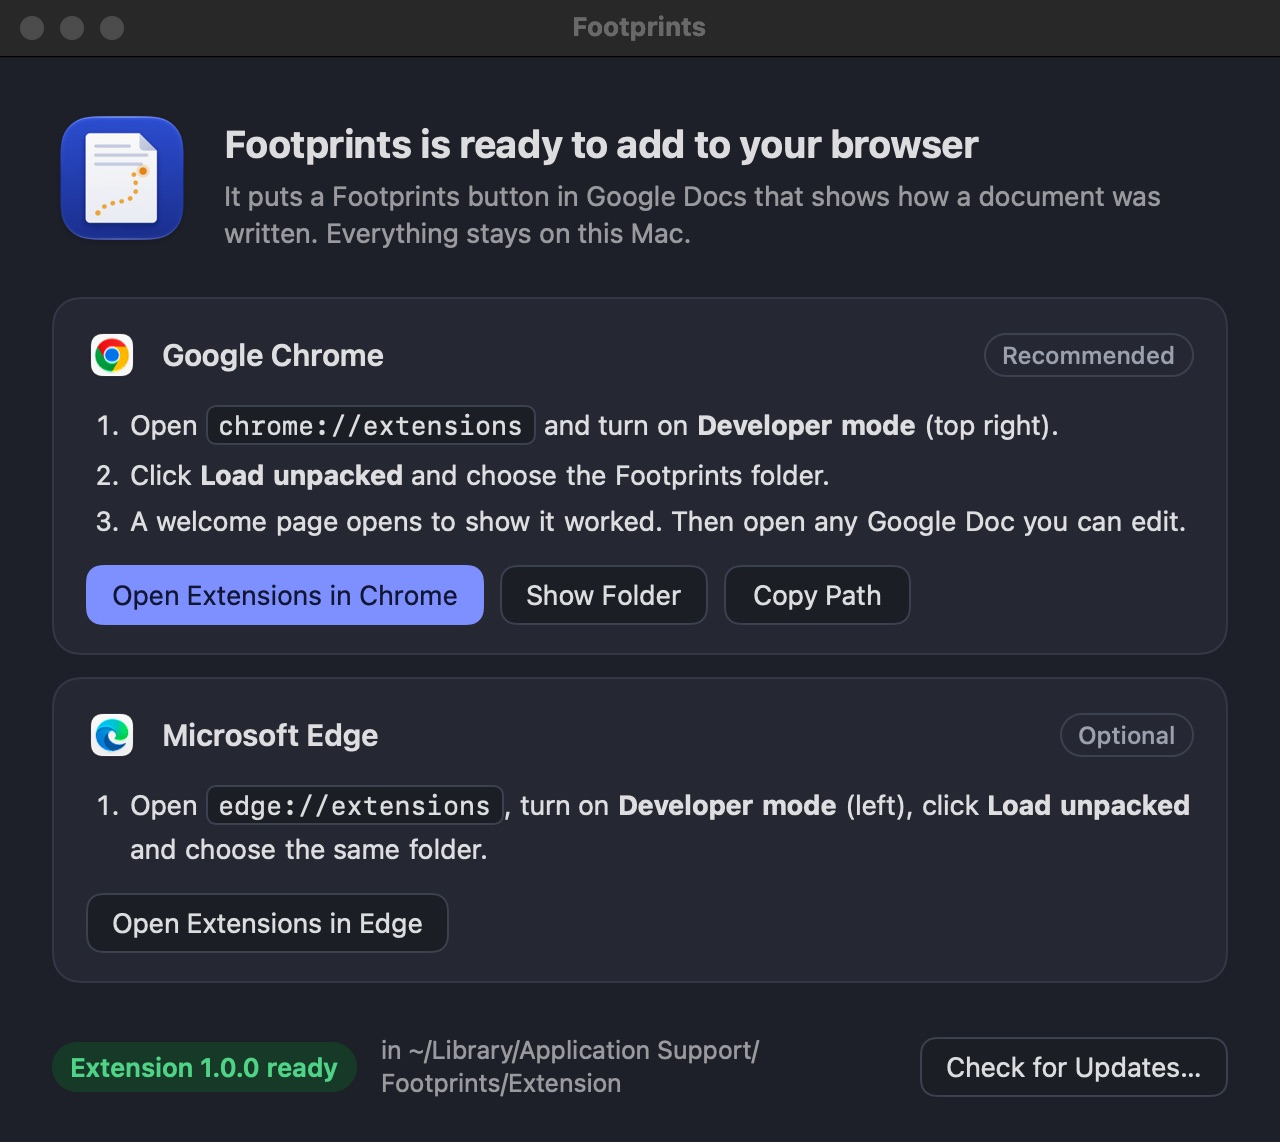
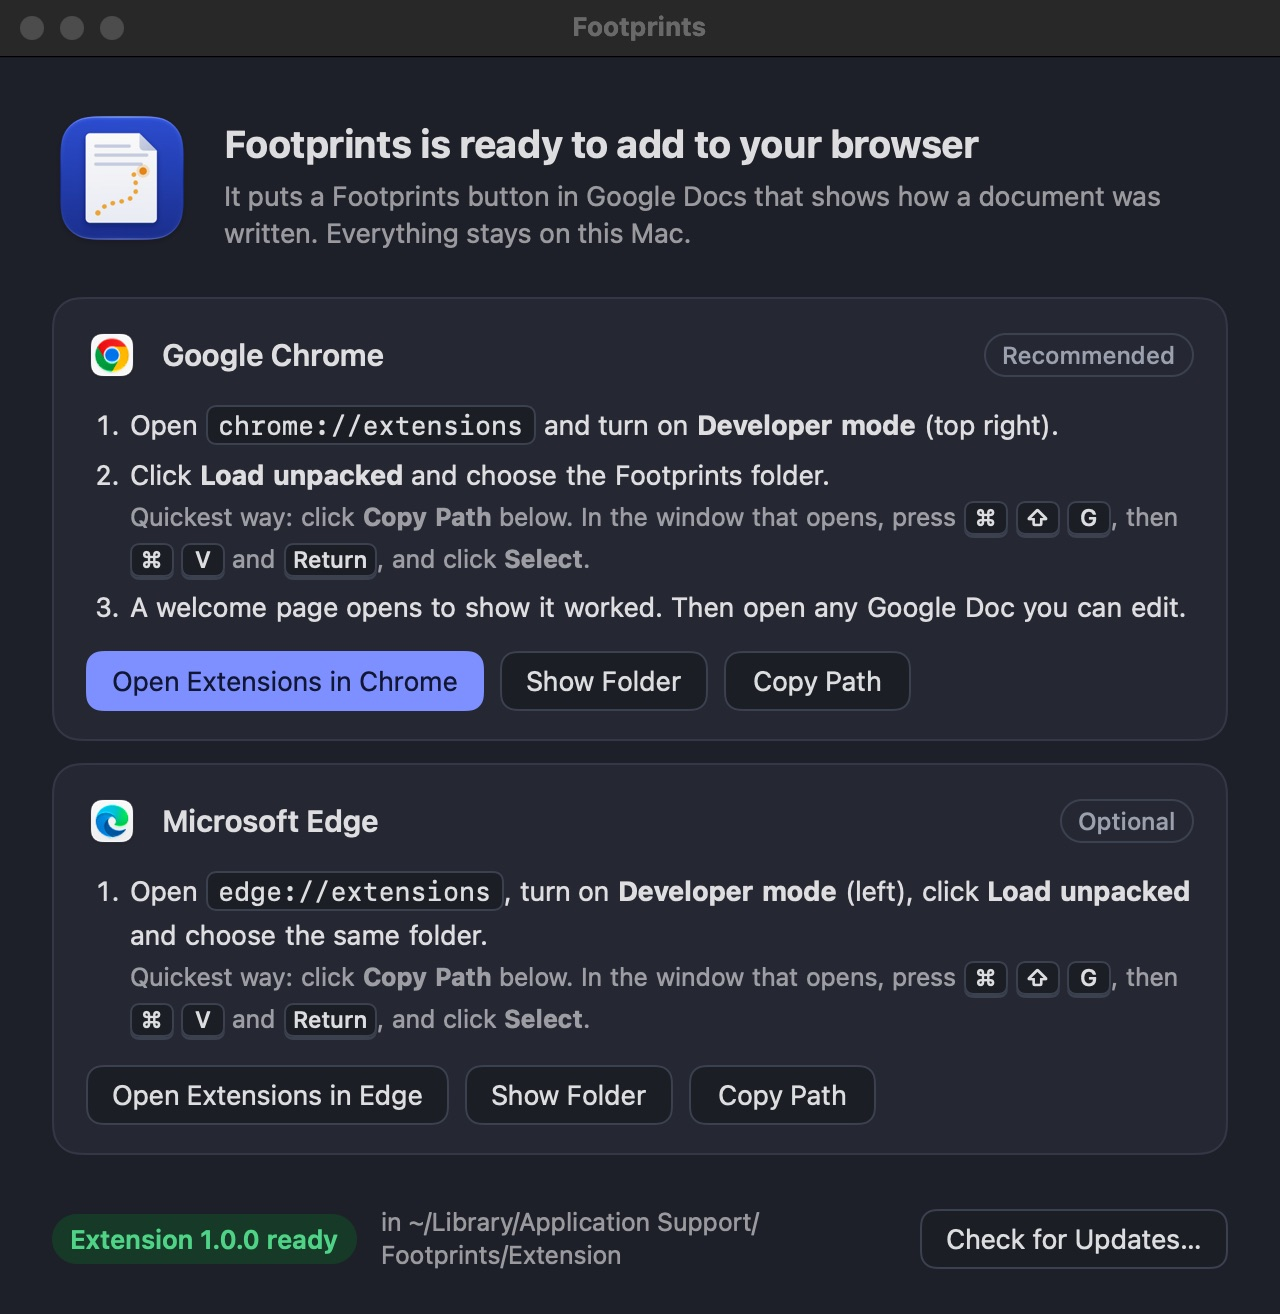
Publish Footprints 1.0.1

diff --git a/apps/footprints/readme.html b/apps/footprints/readme.html
@@ -112,7 +112,7 @@ ol.rm .n{flex:none;width:24px;height:24px;border-radius:12px;display:grid;place-
 <main class="page readme">
   <div class="rmtop"><a class="back" href="./">&#8249; Footprints</a><a href="../../readme/footprints.txt">Plain text</a></div>
   <header class="rmhead"><img class="icon" src="../../icons/footprints.png" alt="" width="64" height="64">
-    <div><h1>Read Me</h1><p>Footprints 1.0.0 · how to install and use it</p></div>
+    <div><h1>Read Me</h1><p>Footprints 1.0.1 · how to install and use it</p></div>
   </header>
   <p class="lead">See how a Google Doc was written. Footprints adds a button to Google Docs that replays the writing like a film, shows when the writer worked, and marks the text that was pasted in. It makes a PDF report, and it can check a whole class's docs at once.</p>
 <h2>What's in this folder</h2>
@@ -120,7 +120,7 @@ ol.rm .n{flex:none;width:24px;height:24px;border-radius:12px;display:grid;place-
 <h2>Before you start</h2>
 <ul class="rm"><li>Any Mac (Apple Silicon or Intel) running macOS 14 or later. It was made and tested on macOS 27.</li><li>Google Chrome or Microsoft Edge (or both).</li><li>Edit access to the docs you want to check. Google only shares a doc's detailed history with people who can edit it.</li></ul>
 <h2>Install</h2>
-<ol class="rm"><li><span class="n">1</span><div><p>Double-click <b>Install Footprints.command</b>.</p><p>If macOS says it can't be opened (<b>Apple could not verify…</b>): click Done, open System Settings → Privacy &amp; Security, scroll down and click <b>Open Anyway</b>, then double-click the installer again.</p><p>Or open Terminal, type <code>bash</code> followed by a space, drag <b>Install Footprints.command</b> into the Terminal window, and press Return.</p></div></li><li><span class="n">2</span><div><p>The installer moves Footprints into Applications and opens it.</p></div></li><li><span class="n">3</span><div><p>Add Footprints's extension to Chrome (and Edge, if you use it). It's free and doesn't need the Web Store:</p><ul><li>Open chrome://extensions (edge://extensions in Edge).</li><li>Turn on Developer mode.</li><li>Click Load unpacked and choose the folder Footprints shows you: ~/Library/Application Support/Footprints/Extension (In the folder dialog, press ⌘⇧G and paste that path.) A welcome page opens to show it worked.</li></ul></div></li></ol>
+<ol class="rm"><li><span class="n">1</span><div><p>Double-click <b>Install Footprints.command</b>.</p><p>If macOS says it can't be opened (<b>Apple could not verify…</b>): click Done, open System Settings → Privacy &amp; Security, scroll down and click <b>Open Anyway</b>, then double-click the installer again.</p><p>Or open Terminal, type <code>bash</code> followed by a space, drag <b>Install Footprints.command</b> into the Terminal window, and press Return.</p></div></li><li><span class="n">2</span><div><p>The installer moves Footprints into Applications and opens it.</p></div></li><li><span class="n">3</span><div><p>Add Footprints's extension to Chrome (and Edge, if you use it). It's free and doesn't need the Web Store:</p><ul><li>Open chrome://extensions (edge://extensions in Edge).</li><li>Turn on Developer mode.</li><li>Click Load unpacked and choose the folder Footprints shows you: ~/Library/Application Support/Footprints/Extension Quickest way: click Copy Path in Footprints's window. In the window Load unpacked opens, press ⌘⇧G (Command-Shift-G), then ⌘V to paste, then Return, and click Select. A welcome page opens to show it worked.</li></ul></div></li></ol>
 <h2>Using Footprints</h2>
 <ul class="rm"><li>Open any Google Doc you can edit. The Footprints button is next to Share. Click it for a summary: time spent writing, sessions, words, what was typed and what was pasted, and the days the writing happened.</li><li>Watch replay plays the doc back. New text is underlined in green, deleted text is struck through, and pasted text is tinted: amber for a paste from outside the doc, blue for text moved within it, purple for text another student's doc had first. Drag along the timeline, press the arrow keys to step one save at a time, and space to play or pause.</li><li>PDF report makes a one-page report to keep with an assessment.</li><li><b>To check a class:</b> open a Toddle assignment, a Drive folder or any page that links to the docs, click Footprints in the browser's toolbar and choose <b>Check every doc on this page</b>. Footprints reads each doc and compares them with each other, so a paragraph that turns up in two students' docs shows who had it first. Download the table as a CSV, or all the reports as one PDF.</li><li><b>Settings (in the toolbar menu):</b> when a pause starts a new session, how long a paste has to be to be listed, and how long histories are kept.</li></ul>
 <h2>Good to know</h2>

diff --git a/apps/footprints/index.html b/apps/footprints/index.html
@@ -115,15 +115,15 @@ ol.rm .n{flex:none;width:24px;height:24px;border-radius:12px;display:grid;place-
     <div><h1>Footprints</h1>
     <p class="sum">Open any Google Doc you can edit and click the Footprints button: watch the doc write itself again, with typed text, pastes from outside, moved text and text another student’s doc had first all marked, and see when the writer worked. Make a one-page PDF report, or check every doc linked on a Toddle assignment or Drive folder at once, so a paragraph that turns up in two students’ docs shows who had it first. Everything is worked out on your computer; nothing is sent anywhere.</p>
     <p class="alt">An alternative to Draftback and Revision History.</p>
-    <div class="acts"><a class="btn primary big" href="https://github.com/explainsims/store/releases/download/footprints-1.0.0/Footprints-1.0.0.zip">Download</a><small>1.0.0 · 1.9 MB · free</small><a href="#feedback"><svg width="14" height="14" viewBox="0 0 15 15" fill="none" stroke="currentColor" stroke-width="1.4" stroke-linejoin="round" aria-hidden="true"><path d="M2.2 3.6c0-.9.7-1.6 1.6-1.6h7.4c.9 0 1.6.7 1.6 1.6v5.2c0 .9-.7 1.6-1.6 1.6H6.4L3.6 12.8v-2.4c-.8 0-1.4-.7-1.4-1.6z"/></svg>Send Feedback</a></div>
+    <div class="acts"><a class="btn primary big" href="https://github.com/explainsims/store/releases/download/footprints-1.0.1/Footprints-1.0.1.zip">Download</a><small>1.0.1 · 1.9 MB · free</small><a href="#feedback"><svg width="14" height="14" viewBox="0 0 15 15" fill="none" stroke="currentColor" stroke-width="1.4" stroke-linejoin="round" aria-hidden="true"><path d="M2.2 3.6c0-.9.7-1.6 1.6-1.6h7.4c.9 0 1.6.7 1.6 1.6v5.2c0 .9-.7 1.6-1.6 1.6H6.4L3.6 12.8v-2.4c-.8 0-1.4-.7-1.4-1.6z"/></svg>Send Feedback</a></div>
     <p class="tip">Or get <a href="../../apps/storefront/">Storefront</a>: it installs Footprints in one click, skips the Open Anyway step, and keeps it up to date.</p></div>
   </header>
   <section class="facts" aria-label="Facts">
-    <div><small>Version</small><b>1.0.0</b><i>latest</i></div>
+    <div><small>Version</small><b>1.0.1</b><i>latest</i></div>
     <div><small>Size</small><b>1.9 MB</b><i>download</i></div>
     <div><small>Needs</small><b>macOS 14</b><i>or later</i></div>
     <div><small>Chip</small><b>Any Mac</b><i>Apple silicon and Intel</i></div>
-    <div><small>Updated</small><b>14 Nov</b><i>2026</i></div>
+    <div><small>Updated</small><b>15 Nov</b><i>2026</i></div>
   </section>
   <section class="shots">
   <div class="sh"><h2>Screenshots</h2><div class="seg" role="group" aria-label="Appearance"><button type="button" data-mode="light" aria-pressed="true">Light</button><button type="button" data-mode="dark" aria-pressed="false">Dark</button></div></div>
@@ -131,7 +131,7 @@ ol.rm .n{flex:none;width:24px;height:24px;border-radius:12px;display:grid;place-
 </section>
 <dialog class="lightbox" aria-label="Screenshot"><img alt=""><button type="button" class="lb prev" aria-label="Previous">&#8249;</button><button type="button" class="lb next" aria-label="Next">&#8250;</button><button type="button" class="lb x" aria-label="Close">&times;</button></dialog>
   <section class="cols">
-    <div><h2>What's new in 1.0.0</h2><ul><li>First release. See how a Google Doc was written: replay it, find what was pasted and where it came from, make a PDF report, and check a whole class at once. Everything stays on your computer.</li></ul></div>
+    <div><h2>What's new in 1.0.1</h2><ul><li>Every browser's setup steps now have Open Extensions, Show Folder and Copy Path buttons, and explain how to reach the extension's folder with ⌘⇧G (Command-Shift-G) in the Load unpacked window.</li></ul></div>
     <div><h2>Good to know</h2><dl class="kv"><dt>Needs</dt><dd>Google Chrome or Microsoft Edge, and edit access to the docs you check. Add its extension once with Load unpacked: the app shows how</dd><dt>Internet</dt><dd>Only Google Docs, to read a doc’s history as you, and update checks</dd><dt>Licence</dt><dd>MIT</dd><dt>Read Me</dt><dd><a href="readme.html">How to use Footprints</a></dd><dt>Privacy</dt><dd><a href="privacy.html">What Footprints keeps and sends</a></dd><dt>First open</dt><dd>macOS asks you to allow it once, under System Settings › Privacy &amp; Security › Open Anyway. Apps installed through Storefront skip that.</dd></dl></div>
   </section>
   <section class="fbcard" id="feedback"><div class="fbtop"><h2>Send feedback about Footprints</h2><span class="priv"><svg width="12" height="12" viewBox="0 0 12 12" fill="none" stroke="currentColor" stroke-width="1.5" aria-hidden="true"><rect x="2" y="5.2" width="8" height="5.6" rx="1.4"/><path d="M3.8 5.2V3.8a2.2 2.2 0 0 1 4.4 0v1.4"/></svg>Private and anonymous</span></div>

diff --git a/index.html b/index.html
@@ -138,8 +138,8 @@ ol.rm .n{flex:none;width:24px;height:24px;border-radius:12px;display:grid;place-
   <div class="t"><h3><a class="cover" href="apps/figureit/">Figure It</a></h3><p class="tag">Figures for tests and worksheets, with student copies and answer keys.</p><small>0.5.11 · 5.4 MB</small></div>
   <a class="btn get" href="https://github.com/explainsims/store/releases/download/figureit-0.5.11/Figure-It-0.5.11.zip" aria-label="Download Figure It">Download</a></article>
 <article class="app" id="footprints" data-kind="tools" data-text="footprints see how a google doc was written. open any google doc you can edit and click the footprints button: watch the doc write itself again, with typed text, pastes from outside, moved text and text another student’s doc had first all marked, and see when the writer worked. make a one-page pdf report, or check every doc linked on a toddle assignment or drive folder at once, so a paragraph that turns up in two students’ docs shows who had it first. everything is worked out on your computer; nothing is sent anywhere. draftback and revision history tools"><img class="icon" src="icons/footprints.png" alt="" width="64" height="64" loading="lazy">
-  <div class="t"><h3><a class="cover" href="apps/footprints/">Footprints</a></h3><p class="tag">See how a Google Doc was written.</p><small>1.0.0 · 1.9 MB</small></div>
-  <a class="btn get" href="https://github.com/explainsims/store/releases/download/footprints-1.0.0/Footprints-1.0.0.zip" aria-label="Download Footprints">Download</a></article>
+  <div class="t"><h3><a class="cover" href="apps/footprints/">Footprints</a></h3><p class="tag">See how a Google Doc was written.</p><small>1.0.1 · 1.9 MB</small></div>
+  <a class="btn get" href="https://github.com/explainsims/store/releases/download/footprints-1.0.1/Footprints-1.0.1.zip" aria-label="Download Footprints">Download</a></article>
 <article class="app" id="freeup" data-kind="tools" data-text="freeup see what fills your disk, on a sunburst map. scans a disk or folder and draws it as rings. click to go in, drag what you don't need to be deleted, and see the space come back. daisydisk tools"><img class="icon" src="icons/freeup.png" alt="" width="64" height="64" loading="lazy">
   <div class="t"><h3><a class="cover" href="apps/freeup/">FreeUp</a></h3><p class="tag">See what fills your disk, on a sunburst map.</p><small>2.1.1 · 3.3 MB</small></div>
   <a class="btn get" href="https://github.com/explainsims/store/releases/download/freeup-2.1.1/FreeUp-2.1.1.zip" aria-label="Download FreeUp">Download</a></article>
@@ -181,7 +181,7 @@ ol.rm .n{flex:none;width:24px;height:24px;border-radius:12px;display:grid;place-
 </main>
 <footer>
   <p>The first time you open an app downloaded here, macOS asks you to allow it under System Settings › Privacy &amp; Security › Open Anyway, because the apps aren't notarised by Apple. Apps installed through Storefront skip that step, and so does Storefront when you install it from Terminal.</p>
-  <p>Not affiliated with Apple or with the makers of any app these are alternatives to. Updated 14 November 2026.</p>
+  <p>Not affiliated with Apple or with the makers of any app these are alternatives to. Updated 15 November 2026.</p>
 </footer>
 <script>
 (() => {
